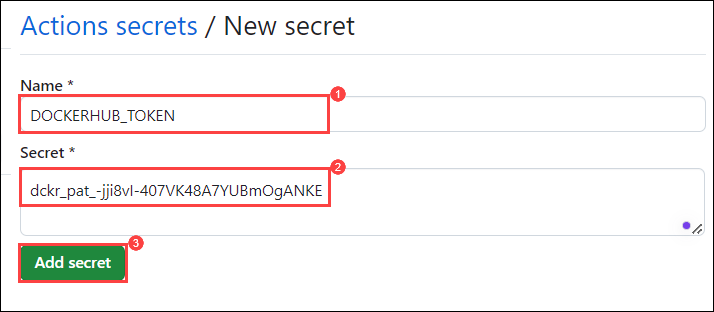
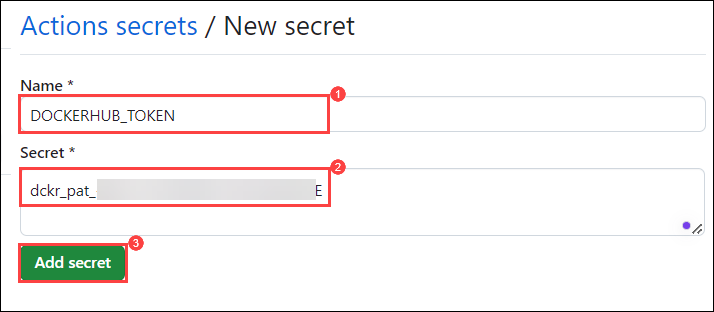
update

Changed region(s): [[0.1232, 0.5481, 0.4622, 0.6635]]

diff --git a/Labfiles/Module-3-Best-Practices-and-Security.md b/Labfiles/Module-3-Best-Practices-and-Security.md
@@ -40,19 +40,45 @@ Here's how you can incorporate a pre-built action from the GitHub Marketplace:
 
     ![](../media/ex2-task2-step11.png)
 
-10. **Find an Action**: Browse the [GitHub](https://github.com/marketplace?type=actions) Marketplace to find an action that suits your needs. You can search by keywords, categories, or use filters to narrow down the results.
+10. Navigate back to the `github-action` repo, from the GitHub repository,  select the **Settings** tab from the lab files repository.
 
-11. In the **GitHub Marketplace**, in search bar search for **Build and push Docker images** **(1)** hit enter, select **Build and push Docker images** **(2)** and feel free to go throught the content.
+    ![](../media/github-action.png)
+
+11. Under **Security**, expand **Secrets and variables** **(1)** by clicking the drop-down and select **Actions** **(2)** blade from the left navigation bar. Select the **New repository secret** **(3)** button.
+
+    ![](../media/add-sec1.png)
+
+12. Under **Actions Secrets/New secret page**, enter the below mentioned details and Click on **Add secret** **(3)**.
+
+    - Name : Enter **DOCKERHUB_USERNAME** **(1)**
+    - Value : Enter the your **Username** **(2)** of Docker hub.
+
+        ![](../media/ex2-task2-step12.png)
+
+13. Once the secret has been created click on **Add secret**.
+
+    ![](../media/ex2-task2-step13.png)
+
+14. Under **Actions Secrets/New secret page**, enter the below mentioned details and Click on **Add secret** **(3)**.
+
+    - Name : Enter **DOCKERHUB_TOKEN** **(1)**
+    - Value : Enter the **PAT** **(2)** of Docker hub which you coped in Step 9.
+
+        ![](../media/ex2-task2-step14.png)
+
+15. **Find an Action**: Browse the [GitHub](https://github.com/marketplace?type=actions) Marketplace to find an action that suits your needs. You can search by keywords, categories, or use filters to narrow down the results.
+
+16. In the **GitHub Marketplace**, in search bar search for **Build and push Docker images** **(1)** hit enter, select **Build and push Docker images** **(2)** and feel free to go throught the content.
 
     ![](../media/ex2-task2-step16.png)
 
     ![](../media/ex2-task2-step16a.png)
 
-12. Now lets create a workflow to publish into Docker Hub using GitHub action. Navigate to the **Code** **(1)**, click on **Add File** **(2)** and click on **+ Create new file** **(3)**.
+17. Now lets create a workflow to publish into Docker Hub using GitHub action. Navigate to the **Code** **(1)**, click on **Add File** **(2)** and click on **+ Create new file** **(3)**.
     
     ![](../media/ex2-task2-step18.png)
 
-13. Provider file name as **docker** **(1)**, in the editor **copy and paste** **(2)** the below script, and click in **commit changes** **(3)**.
+18. Provider file name as **docker** **(1)**, in the editor **copy and paste** **(2)** the below script, and click in **commit changes** **(3)**.
 
     ```
     # Use an official Nginx runtime as a parent image
@@ -70,11 +96,11 @@ Here's how you can incorporate a pre-built action from the GitHub Marketplace:
 
     ![](../media/ex2-task2-step18a.png)
 
-14. Now lets create a workflow to publish into Docker Hub using GitHub action. Navigate to the **Code** **(1)**, click on **Add File** **(2)** and click on **+ Create new file** **(3)**.
+19. Now lets create a workflow to publish into Docker Hub using GitHub action. Navigate to the **Code** **(1)**, click on **Add File** **(2)** and click on **+ Create new file** **(3)**.
     
     ![](../media/ex2-task2-step18.png)
 
-15. Provider file name as **index.html** **(1)**, in the editor **copy and paste** **(2)** the below script, and click in **commit changes** **(3)**.
+20. Provider file name as **index.html** **(1)**, in the editor **copy and paste** **(2)** the below script, and click in **commit changes** **(3)**.
 
     ```
     <!DOCTYPE html>
@@ -91,21 +117,23 @@ Here's how you can incorporate a pre-built action from the GitHub Marketplace:
 
     ![](../media/ex2-task2-step20.png)
 
-16. Navigate to the **Code** **(1)** and click on **.github/workflows** **(2)** folder.
+20. Navigate to the **Code** **(1)** and click on **.github/workflows** **(2)** folder.
 
     ![](../media/editfolder.png)
 
-17. In the **.github/workflows** folder, select **cl.yml** **(1)** and click on **edit** **(2)**.
+21. In the **.github/workflows** folder, select **cl.yml** **(1)** and click on **edit** **(2)**.
 
     ![](../media/editfolder1.png)
 
-18. In the editor update the code with the below provided code and click on and click on **commit changes** **(1)**, replace **{DOCKERHUB_USERNAME}** **(2)** with you docker username in line number 17 and 29, and replace **{DOCKERHUB_TOKEN}** **(3)** with Docker PAT line number 18.
+22. In the editor update the code with the below provided code and click on and click on **commit changes** **(2)**.
 
     ```
     name: ci
 
     on:
-      workflow_dispatch:
+    push:
+        branches:
+        - "main"
 
     jobs:
     build:
@@ -118,8 +146,8 @@ Here's how you can incorporate a pre-built action from the GitHub Marketplace:
             name: Login to Docker Hub
             uses: docker/login-action@v3
             with:
-            username: {DOCKERHUB_USERNAME}
-            password: {DOCKERHUB_TOKEN}
+            username: ${{ secrets.DOCKERHUB_USERNAME }}
+            password: ${{ secrets.DOCKERHUB_TOKEN }}
         -
             name: Set up Docker Buildx
             uses: docker/setup-buildx-action@v3
@@ -130,20 +158,20 @@ Here's how you can incorporate a pre-built action from the GitHub Marketplace:
             context: .
             file: ./docker
             push: true
-            tags: {DOCKERHUB_USERNAME}/clockbox:latest
+            tags: ${{ secrets.DOCKERHUB_USERNAME }}/clockbox:latest
     ```
 
     ![](../media/ex2-task2-step17.png)
 
-19. In the pop up windows of **Commit Changes** click on the **Commit changes**.
+23. In the pop up windows of **Commit Changes** click on the **Commit changes**.
 
     ![](../media/commit-changes.png)
 
-20. Click on **Action** **(1)**, verifiy the workflow has been executed successfully once the workflow is succedded select the newly created workflow **updated cl.yml** **(2)**.
+24. Click on **Action** **(1)**, verifiy the workflow has been executed successfully once the workflow is succedded select the newly created workflow **updated cl.yml** **(2)**.
 
     ![](../media/ex1-task4-step6.png)
 
-21. Naviagte back to the Docker Hub and click on **Repositories** and crossverify the Repositorie has been created **successfully**.
+25. Naviagte back to the Docker Hub and click on **Repositories** and crossverify the Repositorie has been created **successfully**.
 
     ![](../media/ex2-task2-step25.png)
 
